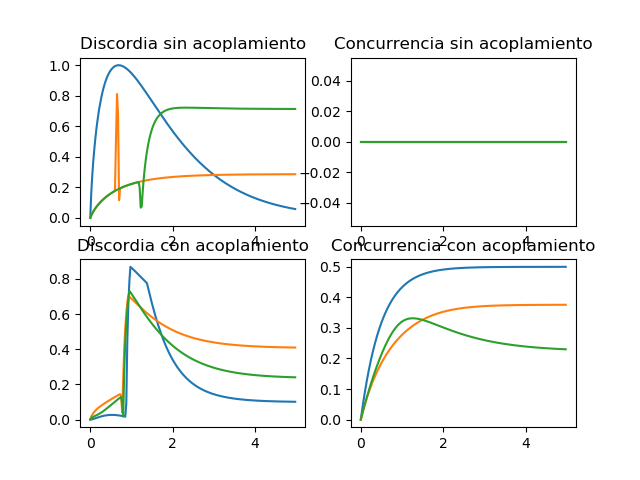
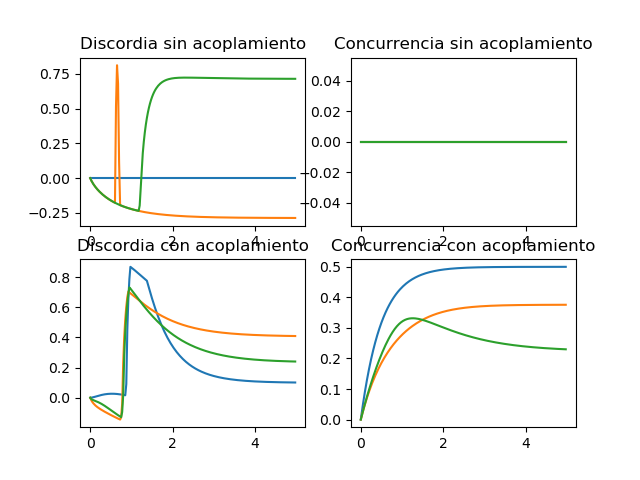
Cambio generado con script

diff --git a/master.py b/master.py
@@ -18,31 +18,27 @@ S0C = [sigmen1+sigmen2]
 S1C = [np.sqrt(1.1)*sigmen1+np.sqrt(1.1)*sigmen2,np.sqrt(0.1)*sigmas1+np.sqrt(0.1)*sigmas2]
 S2C = [np.sqrt(1.1)*sigmen1+np.sqrt(0.1)*sigmas1+np.sqrt(1.1)*sigmen2+np.sqrt(0.1)*sigmas2]
 #Definir funcion logaritmo segura
-
 def log_2(x):
     if np.real(x) <= 0:
        return 0
     return np.log2(x)
-
 #Definir entropia condicional para minimizar
 def entropy_cond(a,b,t1,t2):
     e = a*(-((1-t1)/2)*log_2((1-t1)/2)-((1+t1)/2)*log_2((1+t1)/2))+b*(-((1-t2)/2)*log_2((1-t2)/2)-((1+t2)/2)*log_2((1+t2)/2))
     return e
-
 #Definir función entropía binaria con logaritmo seguro
 def h_bin(x):
     h=-x*log_2(x)-(1-x)*log_2(1-x)
     return h
-   
-#Definir funcion que calcula ecuaciones maestras y evaluar si funciona fuera
+#Definir funcion que calcula ecuaciones maestras y evaluar si funciona fuera para los estados lógicos
 def me3(IN,RES):
     sol=mesolve(tensor(identity(2),identity(2)), IN, times, RES)
     out=[[0 for i in range(200)],[0 for i in range(200)],[0 for i in range(200)], [0 for i in range(200)]]
     conc=[0 for i in range(200)]
     disc=[0 for i in range(200)]
-    clas=[0 for i in range(200)]
-    entf=[0 for i in range(200)]    
-    def entropy_opt(a):
+#    clas=[0 for i in range(200)]
+#    entf=[0 for i in range(200)]    
+    def entropy_opt(a): #función que optimiza la entropía condicional necesaria para sacar discordia
         ent_comp=[0 for i in range(4)]
         r00= a.matrix_element(tensor(basis(2,0),basis(2,0)).dag(),tensor(basis(2,0),basis(2,0)))
         r11= a.matrix_element(tensor(basis(2,0),basis(2,1)).dag(),tensor(basis(2,0),basis(2,1)))
@@ -53,11 +49,11 @@ def me3(IN,RES):
         r03i= np.imag(a.matrix_element(tensor(basis(2,0),basis(2,0)).dag(),tensor(basis(2,1),basis(2,1))))
         r12i= np.imag(a.matrix_element(tensor(basis(2,0),basis(2,1)).dag(),tensor(basis(2,1),basis(2,0))))
         if r11+r33 ==0:
-           ent_comp[0]=1
-           ent_comp[1]=1
+           ent_comp[0]=0
+           ent_comp[1]=0
         elif r00+r22 ==0:
-           ent_comp[0]=1
-           ent_comp[1]=1
+           ent_comp[0]=0
+           ent_comp[1]=0
         else:
            ent_comp[0]=entropy_cond( r11+r33, r00+r22, (r11-r33)/(r00+r22) ,(r00-r22)/(r11+r33) )
            ent_comp[1]=entropy_cond( r00+r22, r11+r33, (r00-r22)/(r11+r33) ,(r11-r33)/(r00+r22) )
@@ -66,15 +62,15 @@ def me3(IN,RES):
         if min(ent_comp)<=0:
            e=0
         else:
-            e= min(ent_comp)
+           e= np.absolute(min(ent_comp))
         return e
     for i in range (0,200):
         mat=Qobj(sol.states[i])
         conc[i]=concurrence(mat)
-        disc[i]=np.abs(-entropy_vn(mat)+entropy_vn(mat.ptrace(0))+entropy_opt(mat))
-        clas[i]=entropy_mutual(mat,0,1)-disc[i]
-        entf[i]=h_bin((1+np.sqrt(1-(concurrence(mat))**2))/2)
-    out=[conc,disc,clas,entf]
+        disc[i]=entropy_vn(mat.ptrace(0))-entropy_vn(mat)+entropy_opt(mat)
+#        clas[i]=entropy_mutual(mat,0,1)-disc[i]
+#        entf[i]=h_bin((1+np.sqrt(1-(concurrence(mat))**2))/2)
+    out=[conc,disc]
     return out
 
 def me2(IN,RES):
@@ -136,7 +132,7 @@ tiempo = [(1/40)*i for i in range(200)]#Intervalo de tiempo para los gráficos
 #axs[0,1].plot(tiempo,me2(I2,S2S)[0])
 #axs[0,1].set_title('Concurrencia sin acoplamiento')
 #axs[1,0].plot(tiempo,me2(I2,S0C)[1])
-#axs[1,0].plot(tiempo,me2(I2,S1C)[1])
+#axs[1,0].plot(tiempo,me2(I2,S1C  \bibitem{Omar} Jimenez, 0. Apunte Información Cuántica 1
 #axs[1,0].plot(tiempo,me2(I2,S2C)[1])
 #axs[1,0].set_title('Discordia con acoplamiento')
 #axs[1,1].plot(tiempo,me2(I2,S0C)[0])
